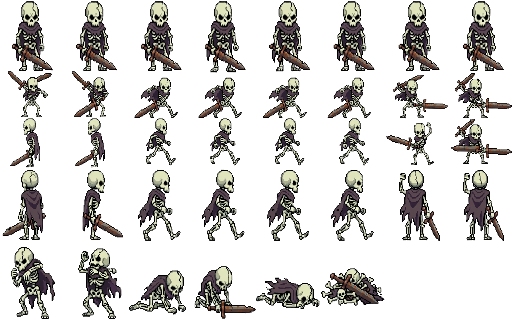
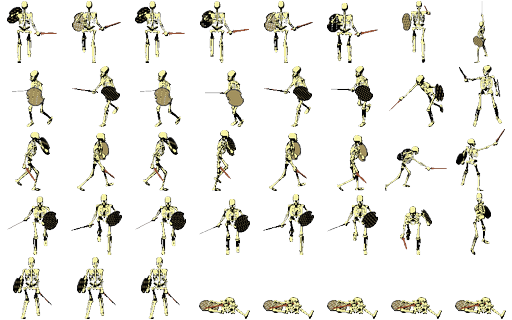
BUILD 965: monster sprites from characters pack — goblin, skeleton, slime, ogre wired from downscaled 8x5 sheets (measured directions down=2/left=7/right=4/up=6, feet re-anchored to cell bottom, standing size matched to BUILD 964 sheets); ogre gets its own sheet (troll keeps troll_sheet.png); CSS re

diff --git a/src/monster-sprites.gen.css b/src/monster-sprites.gen.css
@@ -31,6 +31,62 @@
 @keyframes bat-hurt { from { background-position-x: 0px; } to { background-position-x: -60px; } }
 @keyframes bat-die { from { background-position-x: -60px; } to { background-position-x: -180px; } }
 
+/* ===== dwarf ===== */
+.monster-dwarf { width: 34px; height: 34px; filter: drop-shadow(2px 3px 0 rgba(43, 61, 41, 0.25)); }
+.monster-dwarf .monster-sprite {
+  width: 34px; height: 34px;
+  background-image: url('/mobs/dwarf_sheet.png');
+  background-size: 272px 170px;
+  background-repeat: no-repeat;
+  image-rendering: pixelated;
+  background-position: 0 calc(var(--mrow, 0) * -34px);
+  animation: dwarf-idle 900ms steps(2, end) infinite;
+}
+.monster-dwarf .monster-sprite::before, .monster-dwarf .monster-sprite::after { content: none; }
+.monster-dwarf[data-facing='down'] .monster-sprite { --mrow: 0; }
+.monster-dwarf[data-facing='left'] .monster-sprite { --mrow: 1; }
+.monster-dwarf[data-facing='right'] .monster-sprite { --mrow: 2; }
+.monster-dwarf[data-facing='up'] .monster-sprite { --mrow: 3; }
+.monster-dwarf.is-moving .monster-sprite { animation: dwarf-walk 560ms steps(4, end) infinite; }
+.monster-dwarf.is-attacking .monster-sprite { animation: dwarf-attack 220ms steps(2, end) infinite; }
+.monster-dwarf.is-hit .monster-sprite { --mrow: 4; animation: dwarf-hurt 240ms steps(2, end) infinite; filter: brightness(1.8) saturate(0.5); }
+.monster-dwarf.is-dead { cursor: default; }
+.monster-dwarf.is-dead .monster-sprite { --mrow: 4; animation: dwarf-die 520ms steps(4, end) 1 forwards; }
+@keyframes dwarf-idle { from { background-position-x: 0px; } to { background-position-x: -68px; } }
+@keyframes dwarf-walk { from { background-position-x: -68px; } to { background-position-x: -204px; } }
+@keyframes dwarf-attack { from { background-position-x: -204px; } to { background-position-x: -272px; } }
+@keyframes dwarf-hurt { from { background-position-x: 0px; } to { background-position-x: -68px; } }
+@keyframes dwarf-die { from { background-position-x: -68px; } to { background-position-x: -204px; } }
+.monster-dwarf[data-variant='veteran'] .monster-sprite { filter: sepia(.38) saturate(1.08) brightness(.9); transform: scale(0.98); }
+
+/* ===== elf ===== */
+.monster-elf { width: 38px; height: 38px; filter: drop-shadow(2px 4px 0 rgba(43, 61, 41, 0.28)); }
+.monster-elf .monster-sprite {
+  width: 38px; height: 38px;
+  background-image: url('/mobs/elf_sheet.png');
+  background-size: 304px 190px;
+  background-repeat: no-repeat;
+  image-rendering: pixelated;
+  background-position: 0 calc(var(--mrow, 0) * -38px);
+  animation: elf-idle 900ms steps(2, end) infinite;
+}
+.monster-elf .monster-sprite::before, .monster-elf .monster-sprite::after { content: none; }
+.monster-elf[data-facing='down'] .monster-sprite { --mrow: 0; }
+.monster-elf[data-facing='left'] .monster-sprite { --mrow: 1; }
+.monster-elf[data-facing='right'] .monster-sprite { --mrow: 2; }
+.monster-elf[data-facing='up'] .monster-sprite { --mrow: 3; }
+.monster-elf.is-moving .monster-sprite { animation: elf-walk 560ms steps(4, end) infinite; }
+.monster-elf.is-attacking .monster-sprite { animation: elf-attack 220ms steps(2, end) infinite; }
+.monster-elf.is-hit .monster-sprite { --mrow: 4; animation: elf-hurt 240ms steps(2, end) infinite; filter: brightness(1.8) saturate(0.5); }
+.monster-elf.is-dead { cursor: default; }
+.monster-elf.is-dead .monster-sprite { --mrow: 4; animation: elf-die 520ms steps(4, end) 1 forwards; }
+@keyframes elf-idle { from { background-position-x: 0px; } to { background-position-x: -76px; } }
+@keyframes elf-walk { from { background-position-x: -76px; } to { background-position-x: -228px; } }
+@keyframes elf-attack { from { background-position-x: -228px; } to { background-position-x: -304px; } }
+@keyframes elf-hurt { from { background-position-x: 0px; } to { background-position-x: -76px; } }
+@keyframes elf-die { from { background-position-x: -76px; } to { background-position-x: -228px; } }
+.monster-elf[data-variant='scout'] .monster-sprite { filter: hue-rotate(35deg) saturate(1.2) brightness(1.08); transform: scale(0.96); }
+
 /* ===== goblin ===== */
 .monster-goblin { width: 36px; height: 36px; filter: drop-shadow(2px 3px 0 rgba(43, 61, 41, 0.25)); }
 .monster-goblin .monster-sprite {
@@ -59,6 +115,33 @@
 @keyframes goblin-die { from { background-position-x: -72px; } to { background-position-x: -216px; } }
 .monster-goblin[data-variant='warrior'] .monster-sprite { filter: saturate(1.35) brightness(0.9); }
 .monster-goblin[data-variant='shaman'] .monster-sprite { filter: hue-rotate(50deg) saturate(1.25); }
+
+/* ===== ogre ===== */
+.monster-ogre { width: 56px; height: 56px; filter: drop-shadow(4px 6px 0 rgba(43, 61, 41, 0.3)); }
+.monster-ogre .monster-sprite {
+  width: 56px; height: 56px;
+  background-image: url('/mobs/ogre_sheet.png');
+  background-size: 448px 280px;
+  background-repeat: no-repeat;
+  image-rendering: pixelated;
+  background-position: 0 calc(var(--mrow, 0) * -56px);
+  animation: ogre-idle 900ms steps(2, end) infinite;
+}
+.monster-ogre .monster-sprite::before, .monster-ogre .monster-sprite::after { content: none; }
+.monster-ogre[data-facing='down'] .monster-sprite { --mrow: 0; }
+.monster-ogre[data-facing='left'] .monster-sprite { --mrow: 1; }
+.monster-ogre[data-facing='right'] .monster-sprite { --mrow: 2; }
+.monster-ogre[data-facing='up'] .monster-sprite { --mrow: 3; }
+.monster-ogre.is-moving .monster-sprite { animation: ogre-walk 560ms steps(4, end) infinite; }
+.monster-ogre.is-attacking .monster-sprite { animation: ogre-attack 220ms steps(2, end) infinite; }
+.monster-ogre.is-hit .monster-sprite { --mrow: 4; animation: ogre-hurt 240ms steps(2, end) infinite; filter: brightness(1.8) saturate(0.5); }
+.monster-ogre.is-dead { cursor: default; }
+.monster-ogre.is-dead .monster-sprite { --mrow: 4; animation: ogre-die 520ms steps(4, end) 1 forwards; }
+@keyframes ogre-idle { from { background-position-x: 0px; } to { background-position-x: -112px; } }
+@keyframes ogre-walk { from { background-position-x: -112px; } to { background-position-x: -336px; } }
+@keyframes ogre-attack { from { background-position-x: -336px; } to { background-position-x: -448px; } }
+@keyframes ogre-hurt { from { background-position-x: 0px; } to { background-position-x: -112px; } }
+@keyframes ogre-die { from { background-position-x: -112px; } to { background-position-x: -336px; } }
 
 /* ===== orc ===== */
 .monster-orc { width: 48px; height: 48px; filter: drop-shadow(2px 4px 0 rgba(43, 61, 41, 0.28)); }

diff --git a/index.html b/index.html
@@ -1,1 +1,1 @@
-<!doctype html><html lang="en"><head><!-- BUILD309-VIEWPORT-FIX-MARKER --><meta charset="UTF-8"><meta name="viewport" content="width=device-width, initial-scale=1.0, maximum-scale=1.0, user-scalable=no"><meta name="theme-color" content="#17362e"><link rel="icon" type="image/svg+xml" href="favicon.svg"><meta name="description" content="Explore Mosslight Crossing in the Adventure Game field journal."><title>Adventure Game — Mosslight Crossing</title></head><body><div id="root"></div><script>window.__AG_BUILD="964";(function(){var shown=false;function code(m){var h=0,s=window.__AG_BUILD+"|"+m;for(var i=0;i<s.length;i++){h=(Math.imul(h,31)+s.charCodeAt(i))|0;}return "AG"+window.__AG_BUILD+"-"+(h>>>0).toString(36).toUpperCase().padStart(6,"0").slice(-5);}function show(m,k){if(shown||window.__agBooted)return;shown=true;var d=document.createElement("div");d.id="ag-boot-crash";var p=document.createElement("div");p.className="ag-boot-panel";var t=document.createElement("div");t.className="ag-boot-title";t.textContent="\u26a0 GAME FAILED TO START";var c=document.createElement("div");c.className="ag-boot-code";c.textContent=code(String(m));var g=document.createElement("div");g.className="ag-boot-msg";g.textContent=String(m).slice(0,300);var n=document.createElement("div");n.className="ag-boot-kind";n.textContent=k;var b=document.createElement("button");b.textContent="Reload game";b.onclick=function(){location.reload();};p.appendChild(t);p.appendChild(c);p.appendChild(g);p.appendChild(n);p.appendChild(b);d.appendChild(p);document.body.appendChild(d);}window.addEventListener("error",function(e){if(e.target&&e.target!==window)return;show(e.message||"script error","boot error");},true);window.addEventListener("unhandledrejection",function(e){var r=e.reason;show((r&&(r.message||r))||"rejection","boot rejection");});setTimeout(function(){if(!window.__agBooted)show("The game did not finish loading in time.","load timeout");},20000);})();</script><style>#ag-boot-crash{position:fixed;inset:0;z-index:99999;background:#0d1a16;display:flex;align-items:center;justify-content:center;padding:24px}#ag-boot-crash .ag-boot-panel{max-width:420px;width:100%;background:#14261f;border:1px solid #2c4a3e;border-radius:12px;padding:24px;text-align:center;color:#e8f0e9;font-family:system-ui,sans-serif}#ag-boot-crash .ag-boot-title{font-size:20px;font-weight:800;letter-spacing:.5px}#ag-boot-crash .ag-boot-code{font-family:monospace;font-size:22px;color:#ffd75e;margin:12px 0;letter-spacing:1px}#ag-boot-crash .ag-boot-msg{font-size:13px;color:#b9c9bd;word-break:break-word}#ag-boot-crash .ag-boot-kind{font-size:11px;color:#7d8f83;margin-top:8px;text-transform:uppercase;letter-spacing:1px}#ag-boot-crash button{margin-top:16px;background:#e8a33d;border:0;border-radius:8px;padding:10px 22px;font-size:15px;font-weight:700;color:#231603;cursor:pointer}</style><script type="module" src="/src/main.tsx"></script></body></html>
+<!doctype html><html lang="en"><head><!-- BUILD309-VIEWPORT-FIX-MARKER --><meta charset="UTF-8"><meta name="viewport" content="width=device-width, initial-scale=1.0, maximum-scale=1.0, user-scalable=no"><meta name="theme-color" content="#17362e"><link rel="icon" type="image/svg+xml" href="favicon.svg"><meta name="description" content="Explore Mosslight Crossing in the Adventure Game field journal."><title>Adventure Game — Mosslight Crossing</title></head><body><div id="root"></div><script>window.__AG_BUILD="965";(function(){var shown=false;function code(m){var h=0,s=window.__AG_BUILD+"|"+m;for(var i=0;i<s.length;i++){h=(Math.imul(h,31)+s.charCodeAt(i))|0;}return "AG"+window.__AG_BUILD+"-"+(h>>>0).toString(36).toUpperCase().padStart(6,"0").slice(-5);}function show(m,k){if(shown||window.__agBooted)return;shown=true;var d=document.createElement("div");d.id="ag-boot-crash";var p=document.createElement("div");p.className="ag-boot-panel";var t=document.createElement("div");t.className="ag-boot-title";t.textContent="\u26a0 GAME FAILED TO START";var c=document.createElement("div");c.className="ag-boot-code";c.textContent=code(String(m));var g=document.createElement("div");g.className="ag-boot-msg";g.textContent=String(m).slice(0,300);var n=document.createElement("div");n.className="ag-boot-kind";n.textContent=k;var b=document.createElement("button");b.textContent="Reload game";b.onclick=function(){location.reload();};p.appendChild(t);p.appendChild(c);p.appendChild(g);p.appendChild(n);p.appendChild(b);d.appendChild(p);document.body.appendChild(d);}window.addEventListener("error",function(e){if(e.target&&e.target!==window)return;show(e.message||"script error","boot error");},true);window.addEventListener("unhandledrejection",function(e){var r=e.reason;show((r&&(r.message||r))||"rejection","boot rejection");});setTimeout(function(){if(!window.__agBooted)show("The game did not finish loading in time.","load timeout");},20000);})();</script><style>#ag-boot-crash{position:fixed;inset:0;z-index:99999;background:#0d1a16;display:flex;align-items:center;justify-content:center;padding:24px}#ag-boot-crash .ag-boot-panel{max-width:420px;width:100%;background:#14261f;border:1px solid #2c4a3e;border-radius:12px;padding:24px;text-align:center;color:#e8f0e9;font-family:system-ui,sans-serif}#ag-boot-crash .ag-boot-title{font-size:20px;font-weight:800;letter-spacing:.5px}#ag-boot-crash .ag-boot-code{font-family:monospace;font-size:22px;color:#ffd75e;margin:12px 0;letter-spacing:1px}#ag-boot-crash .ag-boot-msg{font-size:13px;color:#b9c9bd;word-break:break-word}#ag-boot-crash .ag-boot-kind{font-size:11px;color:#7d8f83;margin-top:8px;text-transform:uppercase;letter-spacing:1px}#ag-boot-crash button{margin-top:16px;background:#e8a33d;border:0;border-radius:8px;padding:10px 22px;font-size:15px;font-weight:700;color:#231603;cursor:pointer}</style><script type="module" src="/src/main.tsx"></script></body></html>

diff --git a/src/App.tsx b/src/App.tsx
@@ -180,7 +180,7 @@ const WORLD_TILE_BG: Record<string, string> = { ocean: '#2b2bd9', shore: '#e6d49
 // BUILD 375: single source of truth — the build marker injected into
 // index.html by scripts/prepare-build-entry.cjs. Never hardcode again.
 // BUILD 768: Bundle-owned version marker; don't trust the HTML marker in a cached bundle.
-const BUILD_NUMBER = '964';
+const BUILD_NUMBER = '965';
 const DEBUG_REPOSITORY_ASSETS = Object.entries(import.meta.glob<string>('../game sprites/**/*.{png,webp,jpg,jpeg}', { eager: true, import: 'default', query: '?url' }))
   .map(([path, src]) => ({ id: path, path, folder: path.split('/').slice(0, -1).join('/').replace('../', ''), src: String(src), name: path.split('/').pop() || path }))
   .sort((a, b) => a.name.localeCompare(b.name));
@@ -222,6 +222,7 @@ const BUILD_NOTES: Record<string, string> = {
   '962': 'A new enemy walks the roads: armored knights patrol the deeper outskirts, sword and shield in hand, tougher than the sellswords they replace on those routes — and when one falls, it drops what a warrior would have carried: a real sword and a suit of heavy plate armor, generated with full stats and equippable from your inventory like any other gear. The same rule now covers the fighters you already meet: bandit, goblin, and orc archers drop a bow and cloth armor when they fall. Wizards would drop a staff and cloth robes, but no wizard enemy roams the wilds yet, so that part waits for the first spellcaster to appear — nothing is faked with knight art. Knights count toward the Creature Codex like any other beast, and a knight too heavy to carry stays on the ground with everything else until you make room. Also fixed while wiring the new drops: saves made with monster loot lying on the ground now load again — the save check was rejecting loot types like bone, so a save taken after a fight could refuse to load at all.',
   '963': 'Every house now has a chest you can see and loot: a wooden chest stands beside each front door — in Mosslight and every other town, and at farmhouses out in the wilds — holding a few coins and some household goods like a dagger, a cap, or a pair of boots. Walk up and tap it to open it, then take what you want piece by piece; anything you leave stays in the chest, and anything too heavy to carry stays put with a warning instead of vanishing. Your own starting house chest is free to take from, but taking from any other home is theft: if a villager sees you, word travels to the guards through the usual witness reports and a bounty follows, while an unseen lift leaves no trace. Looted chests stay empty and stay put, old saves gain every chest at full contents, and the adventurer family chests and bank ledger from before work exactly as they did.',
   '964': 'Two real caves you can walk into: Mossback Cave west of Mosslight and Echo Hollow to the east, each marked on the world map, the atlas, and the minimap with its own cave-mouth icon. Walk up to the mouth and tap Enter cave to explore winding natural caverns built from the Kenney cave pieces — stone floors, rock walls, gates, and stairs — with the same monsters, loot, vaults, shops, and traps as a dungeon delve, but every floor is a rough cavern instead of built rooms. Mossback Cave moved a short way from its old spot because the old ground turned out to be a lake with nowhere dry to stand. Dungeons, towns, and your saves work exactly as before.',
+  '965': 'Goblins, skeletons, slimes, and ogres now look like themselves: the monsters you meet in the wilds are drawn from new dedicated artwork instead of the old placeholder sheets — a goblin with its spear, a sword-and-shield skeleton, a bouncing green slime, and a club-wielding ogre that no longer borrows the troll picture. Their strength, behavior, and loot are exactly the same — only how they look has changed.',
   '960': 'Rotating the camera no longer leaves a grid of dark diamonds across the field: ground tiles are now painted as their true rotated shape instead of the unrotated diamond, so terrain stays solid at every angle — quarter turns, 45° steps, mid-turn, and held spins — with no holes and no change to how the camera itself turns, how movement works, or what your saved camera angle is.',
   '958': 'At level 10 you now choose a class that actually changes how you fight. Four teachers have moved into Mosslight: Dain teaches warriors at the Wayfarer Guild, Sable teaches mages, Puck teaches rogues, and Wynn teaches archers. They teach at the guild by day and wander to the Rusty Tankard in the evening, so talk to one when you reach level 10 — changing class later is free. Warriors hit 2 damage harder, rogues crit more often and strike from stealth three times as hard, archers shoot 25 percent harder, and mages open a Spells tab in the Skills panel with real magic: Ember Bolt throws fire at the nearest foe within range, Veil Step blinks you two paces in the direction you face, and Frost Ward hardens your skin with 3 extra armor until your next wound. Spells cost mana drawn from your intelligence, refill slowly on their own, and every cast plays a fire, frost, or veil animation on the field. Effect frames come from a user-supplied effects pack that ships no license file, so no license terms are claimed for them.',
   '949': 'Adventurers now store their dungeon hauls: when one returns from a delve, their gold goes to the Mosslight bank and their loot goes into their family chest — every house has one, and the log tells you exactly what went where. Nothing vanishes: every coin and item from a run is accounted for in a chest or the bank, and old saves gain empty chests automatically. Stored loot stays put for now — it is not spent, traded, or withdrawn yet — and your own dungeons, loot, and inventory work exactly as before.',

diff --git a/scripts/make-monster-sheets.py b/scripts/make-monster-sheets.py
@@ -1,0 +1,145 @@
+#!/usr/bin/env python3
+"""BUILD 965: slice characters.zip monster sheets into the game's 8x5 monster-sheet grid.
+
+Source: ~/workspace/user/files/characters.zip (16 PNGs, 2009, NO license file
+-- no terms claimed; the fact is recorded in the build note, like the knight
+pack in BUILD 962). Each monster sheet is 2048x2048 = 8 cols x 8 rows of
+256px cells: rows are 8 directions, columns are animation frames:
+  cols 0-3 walk cycle, col 4 attack lunge, col 5 attack follow-through,
+  col 6 hurt/stagger, col 7 death (fallen).
+
+Direction rows, measured by eye from enlarged cells + attack thrusts:
+  source row 2 -> down  (front view, face visible)
+  source row 7 -> left  (pure side profile, spear horizontal left -- mirror of right)
+  source row 4 -> right (pure side profile, spear horizontal right, thrust right)
+  source row 6 -> up    (full back view)
+Diagonals (rows 0, 1, 3, 5) are NOT shipped: the game faces monsters in 4
+directions and falls back to down for diagonal cameras -- the same rule the
+knight strips follow (BUILD 962).
+
+Output grid (existing convention, no renderer changes): 8 cols x 5 rows of
+64px cells (512x320). Rows 0-3 = down/left/right/up; cols 0-1 idle, 2-5 walk,
+6-7 attack; row 4 = hurt (cols 0-1) + death (cols 2-5).
+  idle   = source cols [0, 2] (both standing poses -- calmer than stepping frames)
+  walk   = source cols [0, 1, 2, 3] (the walk cycle)
+  attack = source cols [4, 5] (lunge + follow-through)
+  hurt   = source col 6 twice (the sheet has exactly one stagger pose; duplicated
+           so the 2-frame hurt anim holds the stagger -- no invented pose)
+  death  = source cols [6, 7, 7, 7] (stagger -> fallen -> fallen -> fallen)
+Hurt/death use the DOWN direction's poses (most readable; the existing row-4
+convention is directionless).
+
+Re-anchoring: source figures sit centered in their 256px cells with empty
+space below; the game's sheets put feet at the cell bottom (verified on the
+BUILD 964 generated sheets). Each output cell is built by cropping the source
+cell to its alpha bbox, scaling by min(baseScale, 62/bboxW, 62/bboxH), and
+pasting so the bbox bottom lands at y=62 and the bbox center-x at x=32.
+baseScale per kind matches the BUILD 964 sheet's standing figure height
+in-cell (measured 2026-10-22 on public/mobs/<kind>_sheet.png idle cell 0,0):
+goblin 54, skeleton 63, slime 26, ogre 50 (troll_sheet, which ogre's def
+reused). The per-cell fit cap only shrinks extreme poses (wide death fall,
+high sword raise) -- the standing figure keeps its current on-screen size.
+
+Outputs (the paths the game already reads -- defs + generated CSS reference
+/mobs/<kind>_sheet.png, so no renderer changes are needed):
+  public/mobs/goblin_sheet.png, skeleton_sheet.png, slime_sheet.png
+  (overwrite the generated placeholders),
+  public/mobs/ogre_sheet.png (new; ogre.json's spriteSheet moves from
+  troll_sheet.png to it -- troll keeps troll_sheet.png).
+Unmapped (no game kind exists -- shipped nowhere, never faked onto another
+kind): elemental, magician, werewolf, zombie.
+
+Run: python3 scripts/make-monster-sheets.py
+"""
+import os
+import sys
+import zipfile
+
+from PIL import Image
+
+ZIP_PATH = os.path.expanduser("~/workspace/user/files/characters.zip")
+OUT_DIR = os.path.join(os.path.dirname(__file__), "..", "public", "mobs")
+SRC_CELL = 256
+OUT_CELL = 64
+# Output row order [down, left, right, up] -> source rows.
+SOURCE_ROWS = [2, 7, 4, 6]
+# (kind, source png, base scale) -- base scale = BUILD 964 standing in-cell
+# height / source standing bbox height (goblin 54/68, skeleton 63/107,
+# slime 26/35, ogre 50/158).
+KINDS = {
+    "goblin": ("goblin.png", 54 / 68),
+    "skeleton": ("skeleton.png", 63 / 107),
+    "slime": ("slime.png", 26 / 35),
+    "ogre": ("ogre.png", 50 / 158),
+}
+# Output (col, row) -> (source col, source row) for every grid cell.
+# Rows 0-3: facing rows. Row 4: hurt/death from the DOWN row's poses.
+CELL_MAP = {}
+for out_row, src_row in enumerate(SOURCE_ROWS):
+    CELL_MAP.update({
+        (0, out_row): (0, src_row),
+        (1, out_row): (2, src_row),
+        (2, out_row): (0, src_row),
+        (3, out_row): (1, src_row),
+        (4, out_row): (2, src_row),
+        (5, out_row): (3, src_row),
+        (6, out_row): (4, src_row),
+        (7, out_row): (5, src_row),
+    })
+DOWN = SOURCE_ROWS[0]
+CELL_MAP.update({
+    (0, 4): (6, DOWN),
+    (1, 4): (6, DOWN),
+    (2, 4): (6, DOWN),
+    (3, 4): (7, DOWN),
+    (4, 4): (7, DOWN),
+    (5, 4): (7, DOWN),
+    (6, 4): (7, DOWN),
+    (7, 4): (7, DOWN),
+})
+
+
+def cell_bbox(im):
+    """Alpha bbox of a 256px source cell, or None if empty."""
+    alpha = im.split()[3]
+    return alpha.getbbox()
+
+
+def build_sheet(src_im, base_scale):
+    sheet = Image.new("RGBA", (8 * OUT_CELL, 5 * OUT_CELL), (0, 0, 0, 0))
+    for (oc, orow), (sc, srow) in sorted(CELL_MAP.items()):
+        cell = src_im.crop(
+            (sc * SRC_CELL, srow * SRC_CELL,
+             (sc + 1) * SRC_CELL, (srow + 1) * SRC_CELL)
+        )
+        box = cell_bbox(cell)
+        if box is None:
+            raise SystemExit(f"empty source cell col={sc} row={srow}")
+        cropped = cell.crop(box)
+        bw, bh = cropped.size
+        scale = min(base_scale, 62 / bw, 62 / bh)
+        w, h = max(1, round(bw * scale)), max(1, round(bh * scale))
+        resized = cropped.resize((w, h), Image.LANCZOS)
+        # Feet at y=62 (bottom margin 2px), horizontally centered at x=32.
+        left = 32 - w // 2 + oc * OUT_CELL
+        top = 62 - h + 1 + orow * OUT_CELL
+        sheet.paste(resized, (left, top), resized)
+    return sheet
+
+
+def main() -> int:
+    os.makedirs(OUT_DIR, exist_ok=True)
+    with zipfile.ZipFile(ZIP_PATH) as zf:
+        for kind, (png, base_scale) in sorted(KINDS.items()):
+            with zf.open(png) as fh:
+                src = Image.open(fh)
+                src.load()
+            sheet = build_sheet(src, base_scale)
+            out = os.path.join(OUT_DIR, f"{kind}_sheet.png")
+            sheet.save(out, optimize=True)
+            print(f"{kind}: {out} {sheet.size} {os.path.getsize(out)} bytes")
+    return 0
+
+
+if __name__ == "__main__":
+    sys.exit(main())
